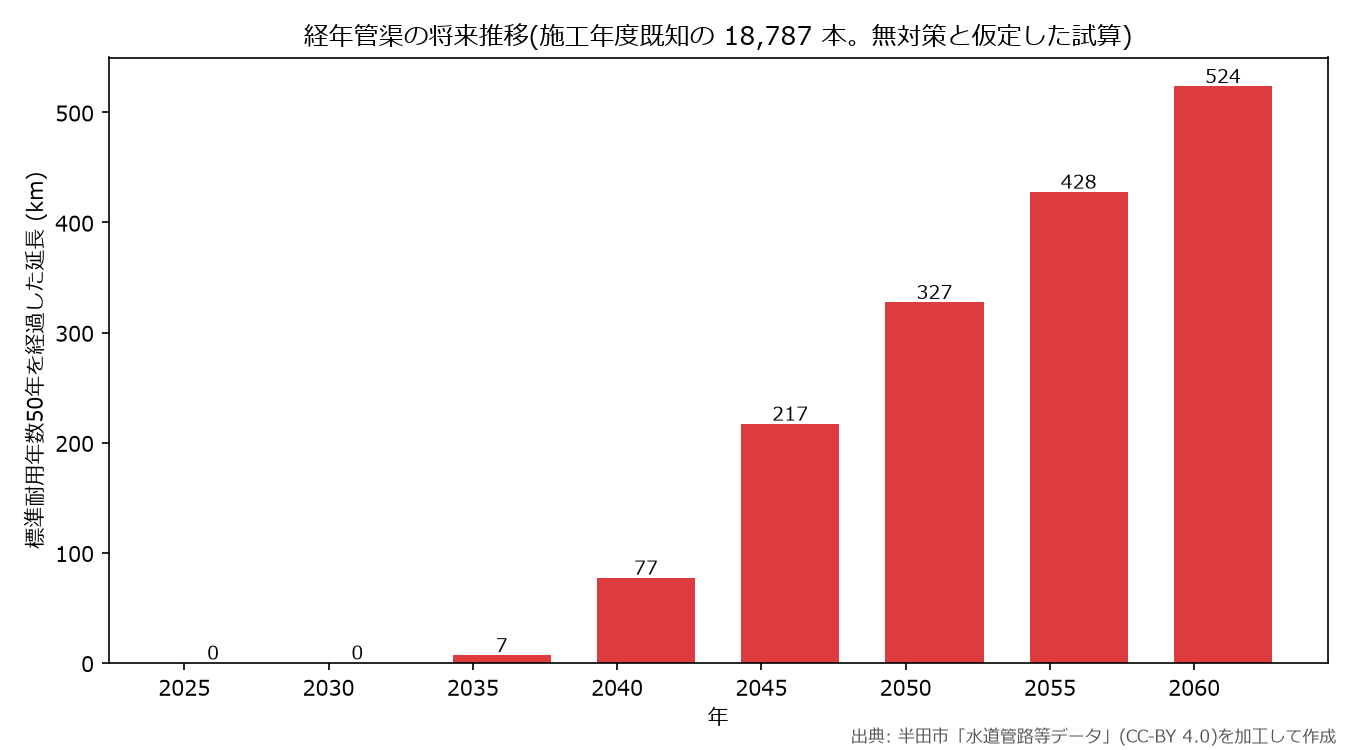
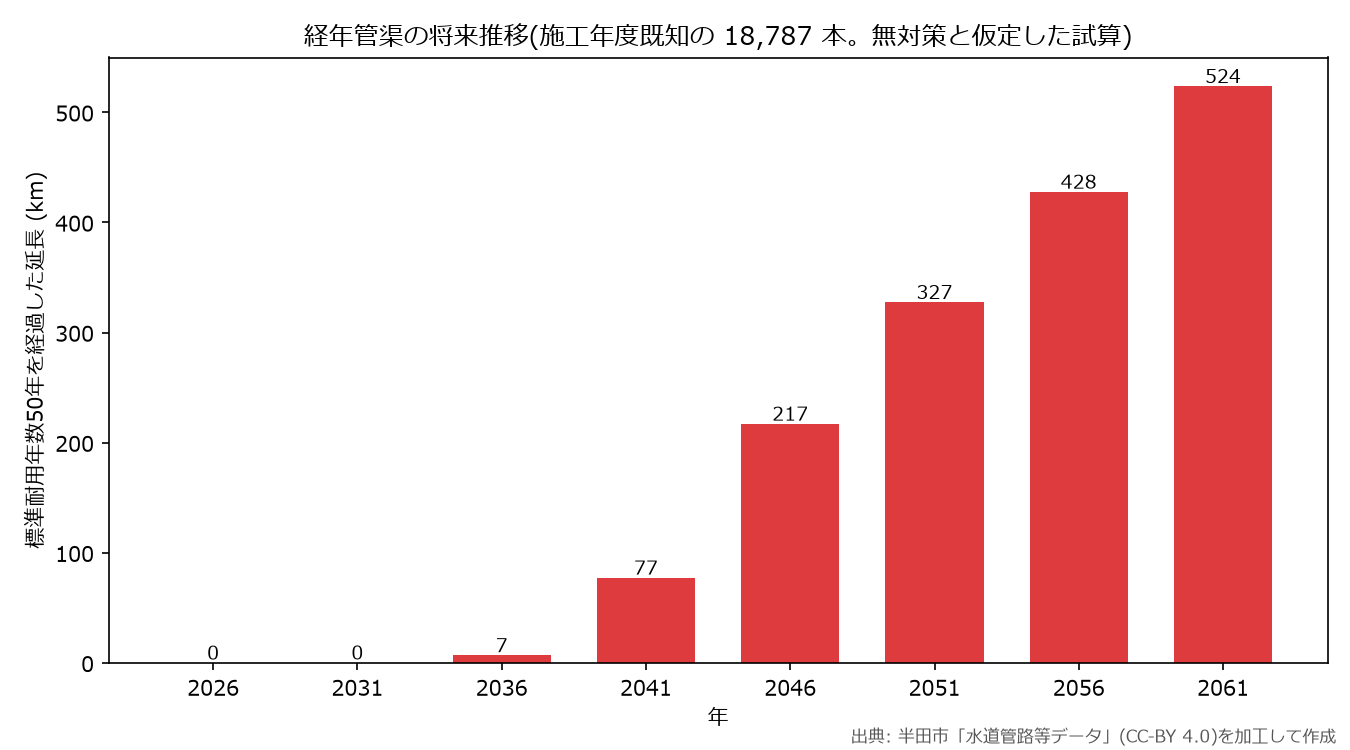
fix: tick future_wave on the projection years, not round years
The bars sit at 2026, 2031, ..., 2061 but matplotlib auto-ticked 2025, 2030,
..., so every bar was read one year early — the article's 2041 / 2046 / 2061
figures did not appear on the axis at all.

Also correct the SOFT_TERRAIN comment: the set is the author's selection, not
"the customary lowland grouping". 扇状地, 自然堤防, 砂州・砂礫州 and 砂丘 are
excluded, and 砂州・砂礫州 does occur in Handa (951 pipes, 22.3 km).

diff --git a/work3-deterioration/score_priority.py b/work3-deterioration/score_priority.py
@@ -246,8 +246,10 @@ def main() -> None:
 
     # Double-risk flag: rank-A screening AND soft-ground terrain. This is
     # an AND of two independent screens (no reweighting of the score).
-    # Soft-ground classes follow the customary lowland / artificial-ground
-    # grouping of the J-SHIS geomorphological classification.
+    # Soft-ground classes: the author's selection from the J-SHIS lowland /
+    # artificial-ground classes. NOT "all lowland" — 扇状地, 自然堤防,
+    # 砂州・砂礫州 and 砂丘 are excluded. See the article for the rationale
+    # and its limits; other municipalities should revisit this list.
     SOFT_TERRAIN = {"干拓地", "埋立地", "三角州・海岸低地", "谷底低地",
                     "旧河道・旧池沼", "後背湿地", "砂丘・砂州間低地"}
     if "terrain_name" in df.columns:

diff --git a/work3-deterioration/future_wave.py b/work3-deterioration/future_wave.py
@@ -43,6 +43,11 @@ print(proj.to_string(index=False))
 
 fig, ax = plt.subplots(figsize=(9, 5))
 ax.bar(proj["year"], proj["km_over50"], width=3.4, color="#d7191c", alpha=0.85)
+# Tick on the actual projection years. Matplotlib's default ticks land on
+# round years (2025, 2030, ...) which sit beside the bars, so readers match
+# each bar to the wrong year.
+ax.set_xticks(list(proj["year"]))
+ax.set_xticklabels([str(y) for y in proj["year"]])
 ax.set_xlabel("年")
 ax.set_ylabel("標準耐用年数50年を経過した延長 (km)")
 ax.set_title(f"経年管渠の将来推移(施工年度既知の {len(known):,} 本。"
